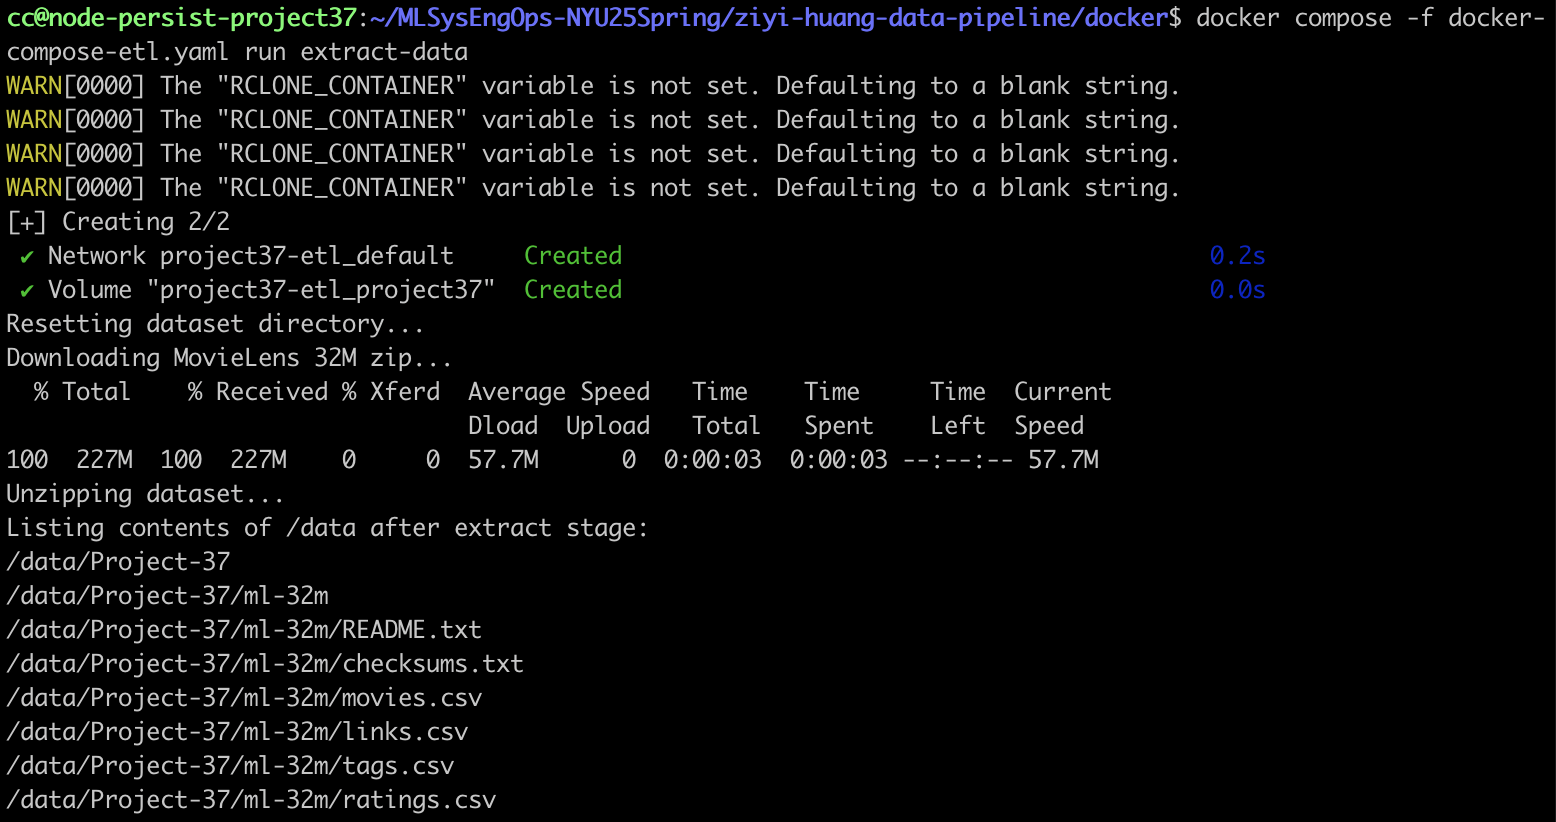
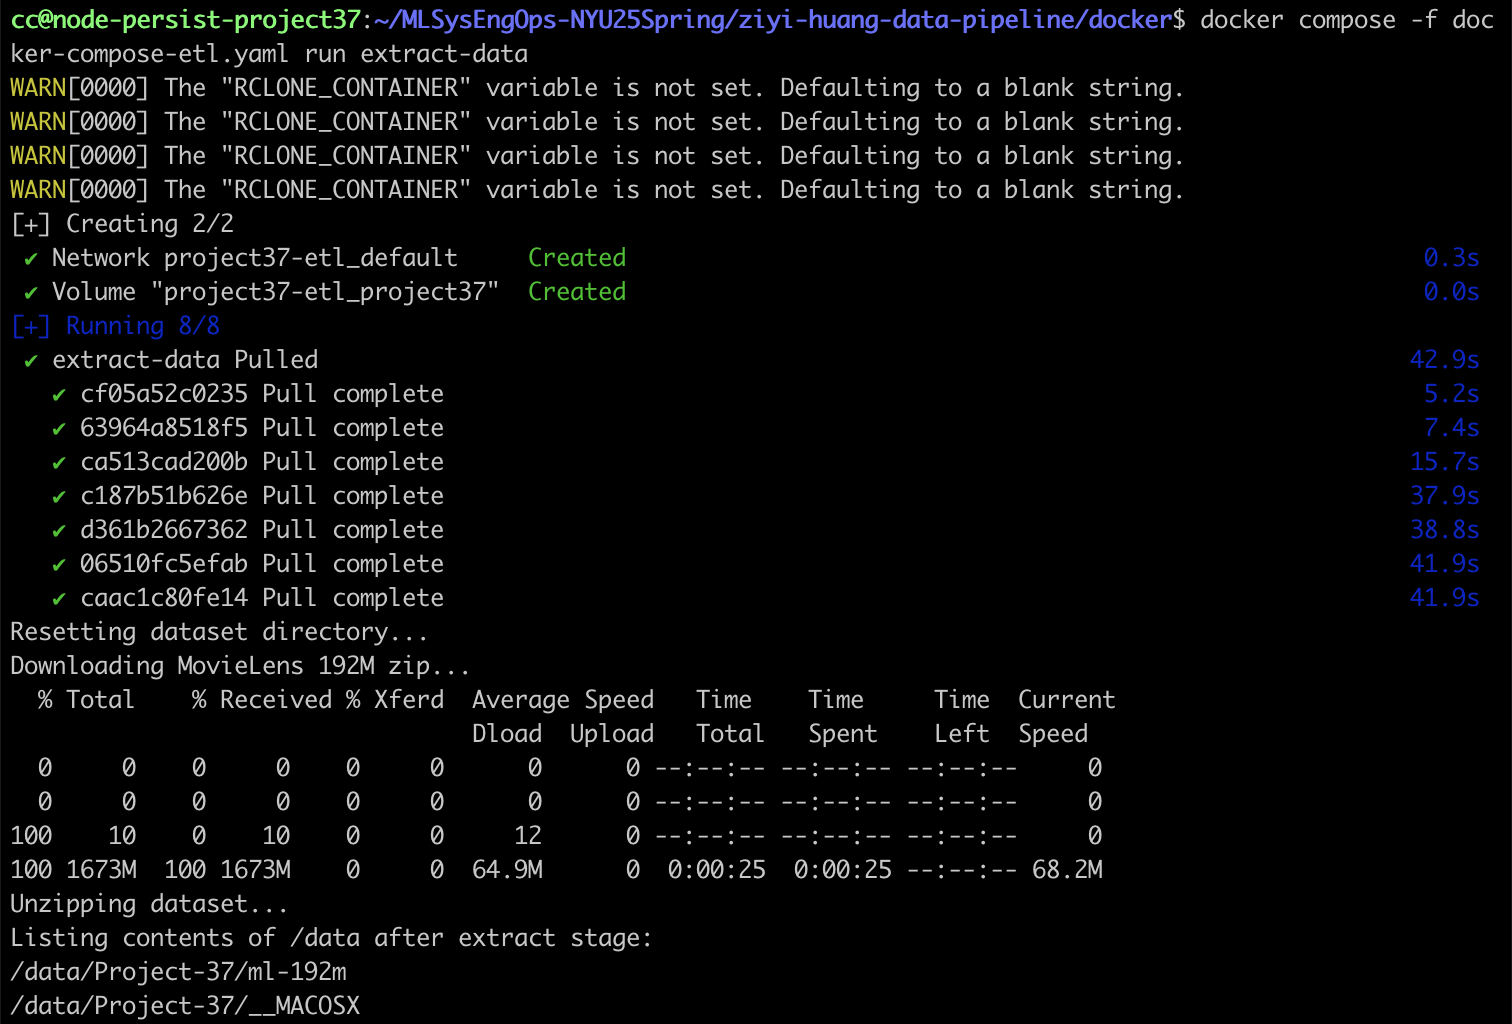
feat: add screenshots

diff --git a/README.md b/README.md
@@ -1,156 +1,10 @@
-## Scalable MLOps System for Personalized Movie Recommendation with Real-Time Monitoring
-<!-- 
-Discuss: Value proposition: Your will propose a machine learning system that can be 
-used in an existing business or service. (You should not propose a system in which 
-a new business or service would be developed around the machine learning system.) 
-Describe the value proposition for the machine learning system. What’s the (non-ML) 
-status quo used in the business or service? What business metric are you going to be 
-judged on? (Note that the “service” does not have to be for general users; you can 
-propose a system for a science problem, for example.)
--->
+### Data pipeline
 
-
-Current recommendation systems, including Netflix’s, often rely heavily on behavioral data and content metadata, using static models that lack adaptability to rapidly changing user preferences. These systems may overlook richer data modalities like audio and video content, limiting their ability to personalize in cold-start or nuanced scenarios.  
-
-Our project introduces an automated MLOps pipeline for personalized movie recommendations using the Enhanced MovieLens dataset which includes text, metadata, audio, and trailer transcriptions, and a Transformer-based model (SSE-PT). We streamline training, tuning, deployment, and monitoring using Ray, MLflow, FastAPI, and Kubernetes with GitOps support via ArgoCD and Helm.
-
-The system enables low-latency online inference, real-time performance tracking, and fast retraining cycles. Business metrics such as model responsiveness will guide evaluation, offering a scalable, adaptive alternative to traditional manual workflows.
-
-### Contributors
-
-<!-- Table of contributors and their roles. 
-First row: define responsibilities that are shared by the team. 
-Then, each row after that is: name of contributor, their role, and in the third column, 
-you will link to their contributions. If your project involves multiple repos, you will 
-link to their contributions in all repos here. -->
-
-| Name                            | Responsible for | Link to their commits in this repo |
-|---------------------------------|-----------------|------------------------------------|
-| All team members                | Rest of the project                |    -                                |
-| Jiayi Zhang                     | Model Training                     |    -                                |
-| Ziqi Zhou                       | Model Serving                      |    -                                |
-| Ziyi Huang                      | Data Pipeline                      |    -                                |
-| Zehao Li                        | Continuous X                       |    https://github.com/zuchuandatou/MLSysEngOps-NYU25Spring/commits/main?author=zuchuandatou                                |
-
-
-
-### System diagram
-
-<!-- Overall digram of system. Doesn't need polish, does need to show all the pieces. 
-Must include: all the hardware, all the containers/software platforms, all the models, 
-all the data. -->
-
-![Sys Diagram](zehao-li/images/sys_diagram.png)
-
-![Sys Diagram Revisited](zehao-li/images/sys_diagram2.png)
-(Refined System Diagram after Lightning Presentation)
-### Summary of outside materials
-
-<!-- In a table, a row for each dataset, foundation model. 
-Name of data/model, conditions under which it was created (ideally with links/references), 
-conditions under which it may be used. -->
-
-|              | How it was created | Conditions of use |
-|--------------|--------------------|-------------------|
-| [MovieLens 1B](https://grouplens.org/datasets/movielens/movielens-1b/)   (3.1GB)|  Collected by GroupLens Research from user rating activity over time.                  |   Available for non-commercial research use only.                |
-| [Enhanced MovieLens](https://zenodo.org/records/8037433)  (~50GB, but we only use 5GB) |   Enriching the MovieLens dataset by incorporating metadata available on the web (such as cast, description, keywords, etc.) and movie trailers                 |     Creative Commons Attribution Non Commercial Share Alike 4.0 International              |
-| [Stochastic Shared Embedding-based Personalized Transformer](https://github.com/hzsnow/NYU-ECE-GY-7123-Deep-Learning-Final-Project) |                      Created for NYU ECE-7123 Deep Learning Final Project              |  Available for non-commercial research use only. |
-
-
-
-### Summary of infrastructure requirements
-
-<!-- Itemize all your anticipated requirements: What (`m1.medium` VM, `gpu_mi100`), 
-how much/when, justification. Include compute, floating IPs, persistent storage. 
-The table below shows an example, it is not a recommendation. -->
-
-| Requirement     | How many/when                                     | Justification |
-|-----------------|---------------------------------------------------|---------------|
-| `m1.medium` VMs | 3 for entire project duration                     | Used for orchestration components like ArgoCD, Helm, and Kubernetes master/control plane.        |
-| `gpu_a100`      | 4 hour blockm, 3 times a week                     |  Required for distributed training with Ray Train and hyperparameter tuning with Ray Tune.             |
-| Floating IPs    | 1 for entire project duration, 1 for sporadic use | One for accessing services (eg., FastAPI, Grafana); one temporary for debug/test deployments.              |
-| Persistent Storage | 100G for entire project duration               | Storage needed for training data, model checkpoints, logs, and MLFlow tracking.
-
-### Detailed design plan
-
-<!-- In each section, you should describe (1) your strategy, (2) the relevant parts of the 
-diagram, (3) justification for your strategy, (4) relate back to lecture material, 
-(5) include specific numbers. -->
-
-#### Model training and training platforms
-
-<!-- Make sure to clarify how you will satisfy the Unit 4 and Unit 5 requirements, 
-and which optional "difficulty" points you are attempting. -->
-We trained and re-trained a Transformer-based model (SSE-PT) for session-based recommendations using both the MovieLens-1M and Wiki1000 datasets, demonstrating modeling choices grounded in recent research.
-We plan to scale training using Ray Train and compare distributed vs. single-GPU training to explore strategies for large models.
-We will host an experiment tracking server (e.g., MLflow) on Chameleon Cloud and log all experiments.
-Additionally, we will deploy a Ray cluster on Chameleon and schedule our training jobs there, with the goal of integrating Ray Tune for hyperparameter tuning to gain extra difficulty points.
-
-#### Model Serving: 
-A RESTful API endpoint will be implemented using FastAPI. The service will be containerized and deployed on Kubernetes with support for asynchronous and batched inference. 
-
-##### Performance Requirements:
-The system targets low-latency online inference and efficient batch throughput, with support for concurrent requests.
-
-##### Model-Level Optimizations:
-- Export models to ONNX format
-- Apply graph optimizations and post-training quantization (both static and dynamic)
-- Use hardware-specific backends like TensorRT and OpenVINO
-
-##### System-Level Optimizations:
-- Enable request batching
-- Use Kubernetes HPA for autoscaling
-- All components will run in containers for isolated, scalable deployments
-
-##### Performance Requirements
-- `raw-data/` → Raw movie data (MovieLens dataset)
-- `processed-data/` → Cleaned-up data
-- `models/` → Trained models
-- `logs/` → User activity logs
-
-##### Multiple Deployment Targets (Extra Difficulty Point):
-- GPU-based serving
-- CPU-only serving
-- Edge-device (quantized, lightweight model for mobile/offline use)
-
-#### Evaluation & Monitoring
-A RESTful API endpoint will be implemented using FastAPI. The service will be containerized and deployed on Kubernetes with support for asynchronous and batched inference. 
-
-##### Offline Evaluation:
-After each training run, automated scripts will evaluate accuracy, diversity, cold-start coverage, etc.
-Results will be logged to MLflow, and used to determine model registration.
-
-##### Staging Load Testing:
-Deploy the service to a staging environment and run load tests to validate latency, error rates, and container stability under traffic.
-
-##### Canary Deployment:
-Gradually route a portion of traffic to a canary model version for online evaluation.
-Compare key metrics (e.g., click-through rate) with the production version before full rollout.
-
-##### Feedback Loop:
-Log user interactions (e.g., views, clicks) to generate new training data for model retraining.
-Set up pipelines to transform logs into labeled data.
-
-##### Business-Specific Evaluation Plan:
-Define metrics such as CTR improvement and recommendation diversity for business value assessment.
-Simulate realistic user behavior for evaluation, if needed.
-
-##### Monitoring Capabilities (Extra Difficulty Point):
-- Monitor data drift and model degradation in real-time
-- Alert engineers and trigger retraining if needed
-- Visualize model performance using dashboards
-
-
-#### Data pipeline
-
-<!-- Make sure to clarify how you will satisfy the Unit 8 requirements,  and which 
-optional "difficulty" points you are attempting. -->
-
-##### Persistent storage:
-- Using Chameleon's storage (Ceph)
+#### Create a persistent storage on Chameleon
+I created object-persist-project37 server on on Chameleon
 ##### Offline Data:
-- `raw-data/` → Raw movie data (MovieLens dataset)
-- `processed-data/` → Cleaned-up data
+- `ml-192m/` → which stores MovieLens 192M raw dataset and contains the raw ratings.csv
+- `training/` → Cleaned-up data
 - `models/` → Trained models
 - `logs/` → User activity logs
 ##### Online Data: 
@@ -159,25 +13,4 @@ optional "difficulty" points you are attempting. -->
 [Data Sources] → [Ingestion] → [Cleaning] → [Feature Store]
 ##### Difficulty Point: Interactive Dashboard
 - Use Grafana to visualize user activity pattern and recommendation performance
-
-
-#### Continuous X
-to pull code at jupyter interface:
-```
-git clone --recurse-submodules https://github.com/zuchuandatou/MLSysEngOps-NYU25Spring.git /work/MLSysEngOps-NYU25Spring
-```
-<!-- Make sure to clarify how you will satisfy the Unit 3 requirements,  and which 
-optional "difficulty" points you are attempting. -->
-
-
-##### Strategy
-
-To meet the Unit 3 DevOps requirements, our project will follow a cloud-native, infrastructure-as-code approach with fully automated CI/CD and continuous training pipelines. Our infrastructure and services will be defined declaratively using Terraform and Helm, and stored in a Git repository. We will adopt a microservices architecture, containerizing each service using Docker and orchestrating deployments via Kubernetes. The CI/CD pipeline will handle model training, evaluation, container packaging, and staged deployment (staging → canary → production) automatically.
-
-##### Relevant Diagram Components
-
-- **Infrastructure Layer**: Defined in Terraform and provisioned on the cloud provide Chameleon, and potentially possibility to extend to commercial clouds(e.g., GCP or AWS), using Kubernetes as the orchestration platform.
-- **Model Training Pipeline**: Built using Argo Workflows, triggered by commits to the training code or data updates.
-- **CI/CD Pipeline**: Implemented using GitHub Actions and ArgoCD. Handles linting, testing, model training, containerization, and deployment.
-- **Environments**: We define distinct namespaces for `staging`, `canary`, and `production`, with promotion mechanisms.
 
